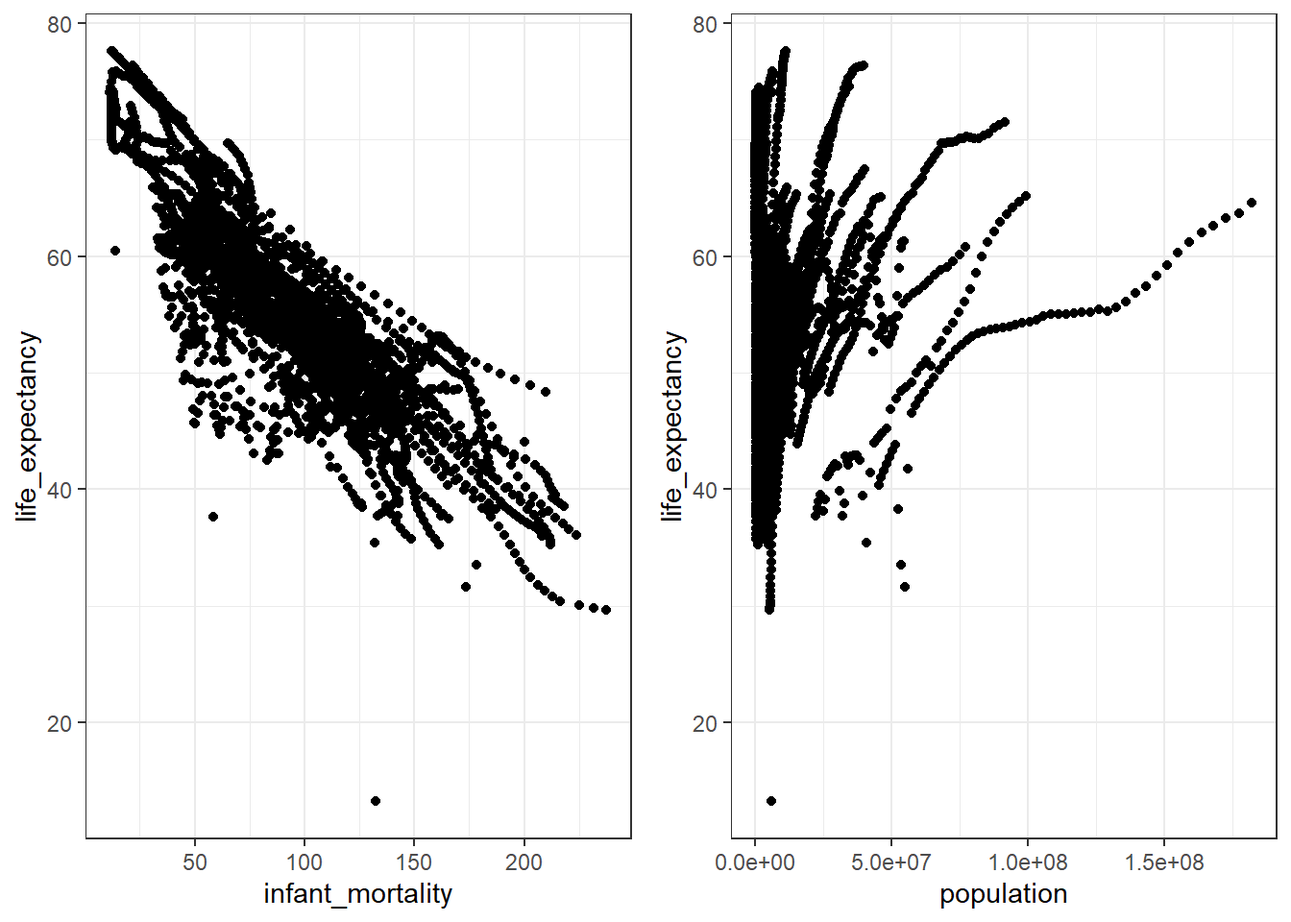
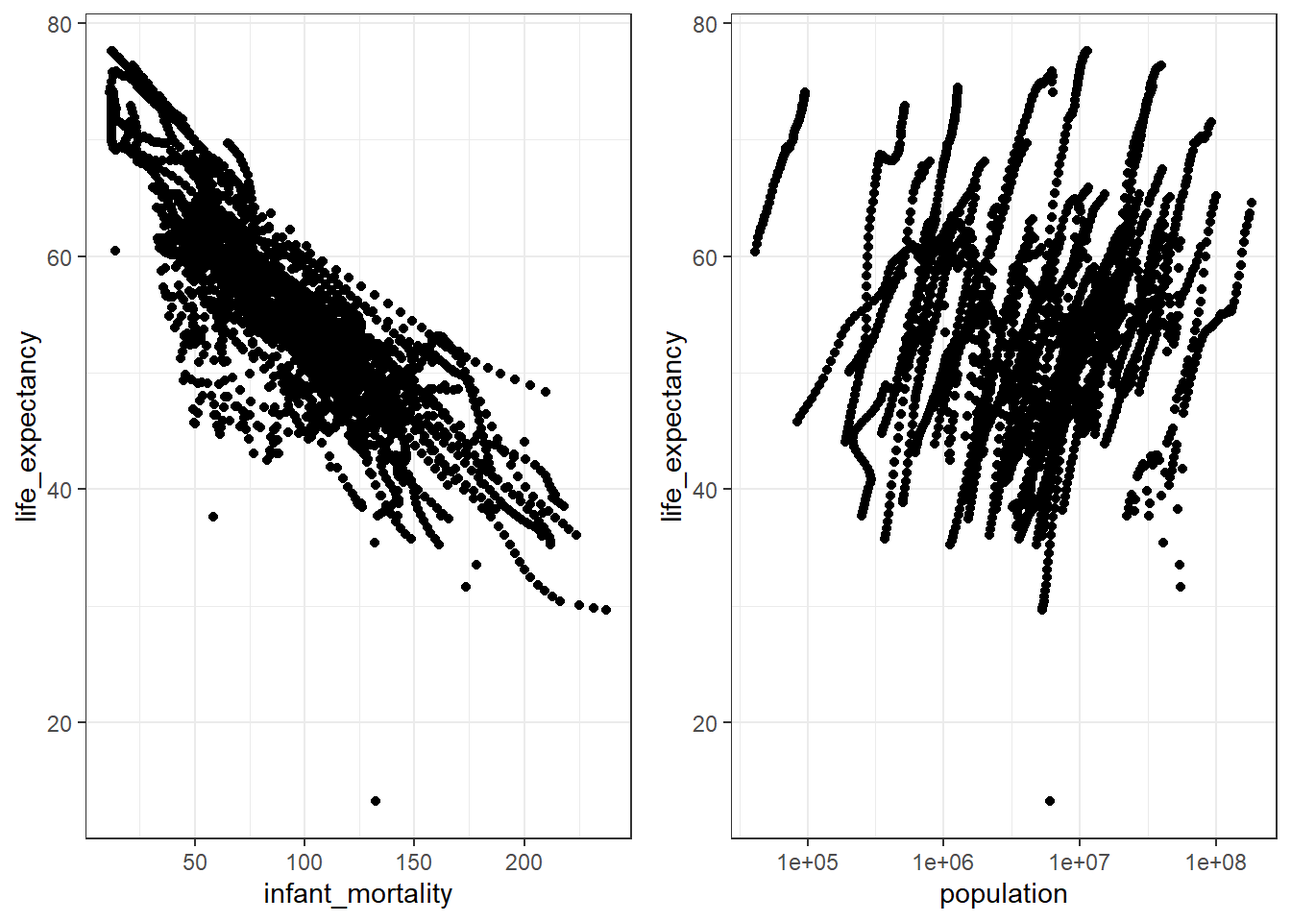
Module 2 Commit 3

diff --git a/docs/starter-analysis-exercise/starter-analysis-exercise.html b/docs/starter-analysis-exercise/starter-analysis-exercise.html
@@ -182,40 +182,40 @@ pre > code.sourceCode > span > a:first-child::before { text-decoration: underlin
 
 <p>Disclaimer: ChatGPT was used to aid in R usage.</p>
 <div class="cell">
-<div class="sourceCode cell-code" id="cb1"><pre class="sourceCode r code-with-copy"><code class="sourceCode r"><span id="cb1-1"><a href="#cb1-1" aria-hidden="true" tabindex="-1"></a><span class="fu">library</span>(<span class="st">"dslabs"</span>)</span></code><button title="Copy to Clipboard" class="code-copy-button"><i class="bi"></i></button></pre></div>
+<div class="sourceCode cell-code" id="cb1"><pre class="sourceCode r code-with-copy"><code class="sourceCode r"><span id="cb1-1"><a href="#cb1-1" aria-hidden="true" tabindex="-1"></a><span class="fu">library</span>(<span class="st">"dslabs"</span>)</span>
+<span id="cb1-2"><a href="#cb1-2" aria-hidden="true" tabindex="-1"></a><span class="fu">library</span>(<span class="st">"tidyverse"</span>)</span></code><button title="Copy to Clipboard" class="code-copy-button"><i class="bi"></i></button></pre></div>
 <div class="cell-output cell-output-stderr">
-<pre><code>Warning: package 'dslabs' was built under R version 4.4.3</code></pre>
-</div>
-<div class="sourceCode cell-code" id="cb3"><pre class="sourceCode r code-with-copy"><code class="sourceCode r"><span id="cb3-1"><a href="#cb3-1" aria-hidden="true" tabindex="-1"></a><span class="fu">library</span>(<span class="st">"tidyverse"</span>)</span></code><button title="Copy to Clipboard" class="code-copy-button"><i class="bi"></i></button></pre></div>
-<div class="cell-output cell-output-stderr">
-<pre><code>Warning: package 'tidyverse' was built under R version 4.4.3</code></pre>
+<pre><code>Warning: package 'ggplot2' was built under R version 4.3.3</code></pre>
 </div>
 <div class="cell-output cell-output-stderr">
-<pre><code>Warning: package 'ggplot2' was built under R version 4.4.3</code></pre>
+<pre><code>Warning: package 'readr' was built under R version 4.3.2</code></pre>
 </div>
 <div class="cell-output cell-output-stderr">
-<pre><code>Warning: package 'readr' was built under R version 4.4.3</code></pre>
+<pre><code>Warning: package 'purrr' was built under R version 4.3.2</code></pre>
 </div>
 <div class="cell-output cell-output-stderr">
-<pre><code>Warning: package 'forcats' was built under R version 4.4.3</code></pre>
+<pre><code>Warning: package 'dplyr' was built under R version 4.3.2</code></pre>
 </div>
 <div class="cell-output cell-output-stderr">
-<pre><code>Warning: package 'lubridate' was built under R version 4.4.3</code></pre>
+<pre><code>Warning: package 'stringr' was built under R version 4.3.2</code></pre>
+</div>
+<div class="cell-output cell-output-stderr">
+<pre><code>Warning: package 'lubridate' was built under R version 4.3.2</code></pre>
 </div>
 <div class="cell-output cell-output-stderr">
 <pre><code>── Attaching core tidyverse packages ──────────────────────── tidyverse 2.0.0 ──
 ✔ dplyr     1.1.4     ✔ readr     2.1.5
 ✔ forcats   1.0.0     ✔ stringr   1.5.1
-✔ ggplot2   3.5.2     ✔ tibble    3.2.1
-✔ lubridate 1.9.4     ✔ tidyr     1.3.1
-✔ purrr     1.0.4     
+✔ ggplot2   3.5.1     ✔ tibble    3.2.1
+✔ lubridate 1.9.3     ✔ tidyr     1.3.0
+✔ purrr     1.0.2     
 ── Conflicts ────────────────────────────────────────── tidyverse_conflicts() ──
 ✖ dplyr::filter() masks stats::filter()
 ✖ dplyr::lag()    masks stats::lag()
 ℹ Use the conflicted package (&lt;http://conflicted.r-lib.org/&gt;) to force all conflicts to become errors</code></pre>
 </div>
-<div class="sourceCode cell-code" id="cb10"><pre class="sourceCode r code-with-copy"><code class="sourceCode r"><span id="cb10-1"><a href="#cb10-1" aria-hidden="true" tabindex="-1"></a><span class="fu">library</span>(<span class="st">"ggplot2"</span>)</span>
-<span id="cb10-2"><a href="#cb10-2" aria-hidden="true" tabindex="-1"></a><span class="fu">library</span>(<span class="st">"gridExtra"</span>)</span></code><button title="Copy to Clipboard" class="code-copy-button"><i class="bi"></i></button></pre></div>
+<div class="sourceCode cell-code" id="cb9"><pre class="sourceCode r code-with-copy"><code class="sourceCode r"><span id="cb9-1"><a href="#cb9-1" aria-hidden="true" tabindex="-1"></a><span class="fu">library</span>(<span class="st">"ggplot2"</span>)</span>
+<span id="cb9-2"><a href="#cb9-2" aria-hidden="true" tabindex="-1"></a><span class="fu">library</span>(<span class="st">"gridExtra"</span>)</span></code><button title="Copy to Clipboard" class="code-copy-button"><i class="bi"></i></button></pre></div>
 <div class="cell-output cell-output-stderr">
 <pre><code>
 Attaching package: 'gridExtra'
@@ -224,29 +224,30 @@ The following object is masked from 'package:dplyr':
 
     combine</code></pre>
 </div>
-<div class="sourceCode cell-code" id="cb12"><pre class="sourceCode r code-with-copy"><code class="sourceCode r"><span id="cb12-1"><a href="#cb12-1" aria-hidden="true" tabindex="-1"></a><span class="co">#creating an object from df:gapminder that only contains African countries</span></span>
-<span id="cb12-2"><a href="#cb12-2" aria-hidden="true" tabindex="-1"></a>africadata <span class="ot">&lt;-</span> gapminder <span class="sc">%&gt;%</span></span>
-<span id="cb12-3"><a href="#cb12-3" aria-hidden="true" tabindex="-1"></a>    <span class="fu">filter</span>(region <span class="sc">%in%</span> <span class="fu">c</span>(<span class="st">"Northern Africa"</span>, <span class="st">"Southern Africa"</span>, <span class="st">"Western Africa"</span>, <span class="st">"Eastern Africa"</span>, <span class="st">"Middle Africa"</span>))</span>
-<span id="cb12-4"><a href="#cb12-4" aria-hidden="true" tabindex="-1"></a></span>
-<span id="cb12-5"><a href="#cb12-5" aria-hidden="true" tabindex="-1"></a><span class="co">#creating an object from df:africadata that only contains infant_mortality and life_expectancy</span></span>
-<span id="cb12-6"><a href="#cb12-6" aria-hidden="true" tabindex="-1"></a>africadata1 <span class="ot">&lt;-</span> africadata <span class="sc">%&gt;%</span></span>
-<span id="cb12-7"><a href="#cb12-7" aria-hidden="true" tabindex="-1"></a>    <span class="fu">select</span>(infant_mortality, life_expectancy)</span>
-<span id="cb12-8"><a href="#cb12-8" aria-hidden="true" tabindex="-1"></a></span>
-<span id="cb12-9"><a href="#cb12-9" aria-hidden="true" tabindex="-1"></a><span class="co">#creating an object from df:africadata that only contains population and life_expectancy</span></span>
-<span id="cb12-10"><a href="#cb12-10" aria-hidden="true" tabindex="-1"></a>africadata2 <span class="ot">&lt;-</span> africadata <span class="sc">%&gt;%</span></span>
-<span id="cb12-11"><a href="#cb12-11" aria-hidden="true" tabindex="-1"></a>    <span class="fu">select</span>(population, life_expectancy)</span>
-<span id="cb12-12"><a href="#cb12-12" aria-hidden="true" tabindex="-1"></a></span>
-<span id="cb12-13"><a href="#cb12-13" aria-hidden="true" tabindex="-1"></a><span class="co">#plotting life_expectancy as a function of infant_mortality using df:africadata1</span></span>
-<span id="cb12-14"><a href="#cb12-14" aria-hidden="true" tabindex="-1"></a>P1 <span class="ot">&lt;-</span> <span class="fu">ggplot</span>(africadata1, <span class="fu">aes</span>(<span class="at">x=</span>infant_mortality, <span class="at">y=</span>life_expectancy))<span class="sc">+</span></span>
-<span id="cb12-15"><a href="#cb12-15" aria-hidden="true" tabindex="-1"></a>    <span class="fu">geom_point</span>()<span class="sc">+</span></span>
-<span id="cb12-16"><a href="#cb12-16" aria-hidden="true" tabindex="-1"></a>    <span class="fu">theme_bw</span>()</span>
-<span id="cb12-17"><a href="#cb12-17" aria-hidden="true" tabindex="-1"></a></span>
-<span id="cb12-18"><a href="#cb12-18" aria-hidden="true" tabindex="-1"></a><span class="co">#plotting life_expectancy as a function of population using df:africadata2</span></span>
-<span id="cb12-19"><a href="#cb12-19" aria-hidden="true" tabindex="-1"></a>P2 <span class="ot">&lt;-</span> <span class="fu">ggplot</span>(africadata2, <span class="fu">aes</span>(<span class="at">x=</span>population, <span class="at">y=</span>life_expectancy))<span class="sc">+</span></span>
-<span id="cb12-20"><a href="#cb12-20" aria-hidden="true" tabindex="-1"></a>    <span class="fu">geom_point</span>()<span class="sc">+</span></span>
-<span id="cb12-21"><a href="#cb12-21" aria-hidden="true" tabindex="-1"></a>    <span class="fu">theme_bw</span>()</span>
-<span id="cb12-22"><a href="#cb12-22" aria-hidden="true" tabindex="-1"></a></span>
-<span id="cb12-23"><a href="#cb12-23" aria-hidden="true" tabindex="-1"></a><span class="fu">grid.arrange</span>(P1, P2, <span class="at">ncol=</span><span class="dv">2</span>)</span></code><button title="Copy to Clipboard" class="code-copy-button"><i class="bi"></i></button></pre></div>
+<div class="sourceCode cell-code" id="cb11"><pre class="sourceCode r code-with-copy"><code class="sourceCode r"><span id="cb11-1"><a href="#cb11-1" aria-hidden="true" tabindex="-1"></a><span class="co">#creating an object from df:gapminder that only contains African countries</span></span>
+<span id="cb11-2"><a href="#cb11-2" aria-hidden="true" tabindex="-1"></a>africadata <span class="ot">&lt;-</span> gapminder <span class="sc">%&gt;%</span></span>
+<span id="cb11-3"><a href="#cb11-3" aria-hidden="true" tabindex="-1"></a>    <span class="fu">filter</span>(region <span class="sc">%in%</span> <span class="fu">c</span>(<span class="st">"Northern Africa"</span>, <span class="st">"Southern Africa"</span>, <span class="st">"Western Africa"</span>, <span class="st">"Eastern Africa"</span>, <span class="st">"Middle Africa"</span>))</span>
+<span id="cb11-4"><a href="#cb11-4" aria-hidden="true" tabindex="-1"></a></span>
+<span id="cb11-5"><a href="#cb11-5" aria-hidden="true" tabindex="-1"></a><span class="co">#creating an object from df:africadata that only contains infant_mortality and life_expectancy</span></span>
+<span id="cb11-6"><a href="#cb11-6" aria-hidden="true" tabindex="-1"></a>africadata1 <span class="ot">&lt;-</span> africadata <span class="sc">%&gt;%</span></span>
+<span id="cb11-7"><a href="#cb11-7" aria-hidden="true" tabindex="-1"></a>    <span class="fu">select</span>(infant_mortality, life_expectancy)</span>
+<span id="cb11-8"><a href="#cb11-8" aria-hidden="true" tabindex="-1"></a></span>
+<span id="cb11-9"><a href="#cb11-9" aria-hidden="true" tabindex="-1"></a><span class="co">#creating an object from df:africadata that only contains population and life_expectancy</span></span>
+<span id="cb11-10"><a href="#cb11-10" aria-hidden="true" tabindex="-1"></a>africadata2 <span class="ot">&lt;-</span> africadata <span class="sc">%&gt;%</span></span>
+<span id="cb11-11"><a href="#cb11-11" aria-hidden="true" tabindex="-1"></a>    <span class="fu">select</span>(population, life_expectancy)</span>
+<span id="cb11-12"><a href="#cb11-12" aria-hidden="true" tabindex="-1"></a></span>
+<span id="cb11-13"><a href="#cb11-13" aria-hidden="true" tabindex="-1"></a><span class="co">#plotting life_expectancy as a function of infant_mortality using df:africadata1</span></span>
+<span id="cb11-14"><a href="#cb11-14" aria-hidden="true" tabindex="-1"></a>P1 <span class="ot">&lt;-</span> <span class="fu">ggplot</span>(africadata1, <span class="fu">aes</span>(<span class="at">x=</span>infant_mortality, <span class="at">y=</span>life_expectancy))<span class="sc">+</span></span>
+<span id="cb11-15"><a href="#cb11-15" aria-hidden="true" tabindex="-1"></a>    <span class="fu">geom_point</span>()<span class="sc">+</span></span>
+<span id="cb11-16"><a href="#cb11-16" aria-hidden="true" tabindex="-1"></a>    <span class="fu">theme_bw</span>()</span>
+<span id="cb11-17"><a href="#cb11-17" aria-hidden="true" tabindex="-1"></a></span>
+<span id="cb11-18"><a href="#cb11-18" aria-hidden="true" tabindex="-1"></a><span class="co">#plotting life_expectancy as a function of population using df:africadata2</span></span>
+<span id="cb11-19"><a href="#cb11-19" aria-hidden="true" tabindex="-1"></a>P2 <span class="ot">&lt;-</span> <span class="fu">ggplot</span>(africadata2, <span class="fu">aes</span>(<span class="at">x=</span>population, <span class="at">y=</span>life_expectancy))<span class="sc">+</span></span>
+<span id="cb11-20"><a href="#cb11-20" aria-hidden="true" tabindex="-1"></a>    <span class="fu">geom_point</span>()<span class="sc">+</span></span>
+<span id="cb11-21"><a href="#cb11-21" aria-hidden="true" tabindex="-1"></a>    <span class="fu">scale_x_log10</span>()<span class="sc">+</span></span>
+<span id="cb11-22"><a href="#cb11-22" aria-hidden="true" tabindex="-1"></a>    <span class="fu">theme_bw</span>()</span>
+<span id="cb11-23"><a href="#cb11-23" aria-hidden="true" tabindex="-1"></a></span>
+<span id="cb11-24"><a href="#cb11-24" aria-hidden="true" tabindex="-1"></a><span class="fu">grid.arrange</span>(P1, P2, <span class="at">ncol=</span><span class="dv">2</span>)</span></code><button title="Copy to Clipboard" class="code-copy-button"><i class="bi"></i></button></pre></div>
 <div class="cell-output cell-output-stderr">
 <pre><code>Warning: Removed 226 rows containing missing values or values outside the scale range
 (`geom_point()`).</code></pre>
@@ -262,8 +263,8 @@ The following object is masked from 'package:dplyr':
 </figure>
 </div>
 </div>
-<div class="sourceCode cell-code" id="cb15"><pre class="sourceCode r code-with-copy"><code class="sourceCode r"><span id="cb15-1"><a href="#cb15-1" aria-hidden="true" tabindex="-1"></a><span class="co">#checking which years have missing data on infant_mortality</span></span>
-<span id="cb15-2"><a href="#cb15-2" aria-hidden="true" tabindex="-1"></a><span class="fu">aggregate</span>(<span class="fu">is.na</span>(infant_mortality) <span class="sc">~</span> year, <span class="at">data=</span>africadata, sum)</span></code><button title="Copy to Clipboard" class="code-copy-button"><i class="bi"></i></button></pre></div>
+<div class="sourceCode cell-code" id="cb14"><pre class="sourceCode r code-with-copy"><code class="sourceCode r"><span id="cb14-1"><a href="#cb14-1" aria-hidden="true" tabindex="-1"></a><span class="co">#checking which years have missing data on infant_mortality</span></span>
+<span id="cb14-2"><a href="#cb14-2" aria-hidden="true" tabindex="-1"></a><span class="fu">aggregate</span>(<span class="fu">is.na</span>(infant_mortality) <span class="sc">~</span> year, <span class="at">data=</span>africadata, sum)</span></code><button title="Copy to Clipboard" class="code-copy-button"><i class="bi"></i></button></pre></div>
 <div class="cell-output cell-output-stdout">
 <pre><code>   year is.na(infant_mortality)
 1  1960                      10
@@ -324,28 +325,29 @@ The following object is masked from 'package:dplyr':
 56 2015                       0
 57 2016                      51</code></pre>
 </div>
-<div class="sourceCode cell-code" id="cb17"><pre class="sourceCode r code-with-copy"><code class="sourceCode r"><span id="cb17-1"><a href="#cb17-1" aria-hidden="true" tabindex="-1"></a><span class="co">#creating an object from df:africadata that only contains data from year 2000</span></span>
-<span id="cb17-2"><a href="#cb17-2" aria-hidden="true" tabindex="-1"></a>africadata2000 <span class="ot">&lt;-</span> africadata[africadata<span class="sc">$</span>year<span class="sc">==</span><span class="dv">2000</span>,]</span>
-<span id="cb17-3"><a href="#cb17-3" aria-hidden="true" tabindex="-1"></a></span>
-<span id="cb17-4"><a href="#cb17-4" aria-hidden="true" tabindex="-1"></a><span class="co">#creating an object from df:africadata2000 that only contains infant_mortality and life_expectancy</span></span>
-<span id="cb17-5"><a href="#cb17-5" aria-hidden="true" tabindex="-1"></a>africadata3 <span class="ot">&lt;-</span> africadata2000 <span class="sc">%&gt;%</span></span>
-<span id="cb17-6"><a href="#cb17-6" aria-hidden="true" tabindex="-1"></a>    <span class="fu">select</span>(infant_mortality, life_expectancy)</span>
-<span id="cb17-7"><a href="#cb17-7" aria-hidden="true" tabindex="-1"></a></span>
-<span id="cb17-8"><a href="#cb17-8" aria-hidden="true" tabindex="-1"></a><span class="co">#creating an object from df:africadata2000 that only contains population and life_expectancy</span></span>
-<span id="cb17-9"><a href="#cb17-9" aria-hidden="true" tabindex="-1"></a>africadata4 <span class="ot">&lt;-</span> africadata2000 <span class="sc">%&gt;%</span></span>
-<span id="cb17-10"><a href="#cb17-10" aria-hidden="true" tabindex="-1"></a>    <span class="fu">select</span>(population, life_expectancy)</span>
-<span id="cb17-11"><a href="#cb17-11" aria-hidden="true" tabindex="-1"></a></span>
-<span id="cb17-12"><a href="#cb17-12" aria-hidden="true" tabindex="-1"></a><span class="co">#plotting life_expectancy as a function of infant_mortality using df:africadata3</span></span>
-<span id="cb17-13"><a href="#cb17-13" aria-hidden="true" tabindex="-1"></a>P3 <span class="ot">&lt;-</span> <span class="fu">ggplot</span>(africadata3, <span class="fu">aes</span>(<span class="at">x=</span>infant_mortality, <span class="at">y=</span>life_expectancy))<span class="sc">+</span></span>
-<span id="cb17-14"><a href="#cb17-14" aria-hidden="true" tabindex="-1"></a>    <span class="fu">geom_point</span>()<span class="sc">+</span></span>
-<span id="cb17-15"><a href="#cb17-15" aria-hidden="true" tabindex="-1"></a>    <span class="fu">theme_bw</span>()</span>
-<span id="cb17-16"><a href="#cb17-16" aria-hidden="true" tabindex="-1"></a></span>
-<span id="cb17-17"><a href="#cb17-17" aria-hidden="true" tabindex="-1"></a><span class="co">#plotting life_expectancy as a function of population using df:africadata4</span></span>
-<span id="cb17-18"><a href="#cb17-18" aria-hidden="true" tabindex="-1"></a>P4 <span class="ot">&lt;-</span> <span class="fu">ggplot</span>(africadata4, <span class="fu">aes</span>(<span class="at">x=</span>population, <span class="at">y=</span>life_expectancy))<span class="sc">+</span></span>
-<span id="cb17-19"><a href="#cb17-19" aria-hidden="true" tabindex="-1"></a>    <span class="fu">geom_point</span>()<span class="sc">+</span></span>
-<span id="cb17-20"><a href="#cb17-20" aria-hidden="true" tabindex="-1"></a>    <span class="fu">theme_bw</span>()</span>
-<span id="cb17-21"><a href="#cb17-21" aria-hidden="true" tabindex="-1"></a></span>
-<span id="cb17-22"><a href="#cb17-22" aria-hidden="true" tabindex="-1"></a><span class="fu">grid.arrange</span>(P3, P4, <span class="at">ncol=</span><span class="dv">2</span>)</span></code><button title="Copy to Clipboard" class="code-copy-button"><i class="bi"></i></button></pre></div>
+<div class="sourceCode cell-code" id="cb16"><pre class="sourceCode r code-with-copy"><code class="sourceCode r"><span id="cb16-1"><a href="#cb16-1" aria-hidden="true" tabindex="-1"></a><span class="co">#creating an object from df:africadata that only contains data from year 2000</span></span>
+<span id="cb16-2"><a href="#cb16-2" aria-hidden="true" tabindex="-1"></a>africadata2000 <span class="ot">&lt;-</span> africadata[africadata<span class="sc">$</span>year<span class="sc">==</span><span class="dv">2000</span>,]</span>
+<span id="cb16-3"><a href="#cb16-3" aria-hidden="true" tabindex="-1"></a></span>
+<span id="cb16-4"><a href="#cb16-4" aria-hidden="true" tabindex="-1"></a><span class="co">#creating an object from df:africadata2000 that only contains infant_mortality and life_expectancy</span></span>
+<span id="cb16-5"><a href="#cb16-5" aria-hidden="true" tabindex="-1"></a>africadata3 <span class="ot">&lt;-</span> africadata2000 <span class="sc">%&gt;%</span></span>
+<span id="cb16-6"><a href="#cb16-6" aria-hidden="true" tabindex="-1"></a>    <span class="fu">select</span>(infant_mortality, life_expectancy)</span>
+<span id="cb16-7"><a href="#cb16-7" aria-hidden="true" tabindex="-1"></a></span>
+<span id="cb16-8"><a href="#cb16-8" aria-hidden="true" tabindex="-1"></a><span class="co">#creating an object from df:africadata2000 that only contains population and life_expectancy</span></span>
+<span id="cb16-9"><a href="#cb16-9" aria-hidden="true" tabindex="-1"></a>africadata4 <span class="ot">&lt;-</span> africadata2000 <span class="sc">%&gt;%</span></span>
+<span id="cb16-10"><a href="#cb16-10" aria-hidden="true" tabindex="-1"></a>    <span class="fu">select</span>(population, life_expectancy)</span>
+<span id="cb16-11"><a href="#cb16-11" aria-hidden="true" tabindex="-1"></a></span>
+<span id="cb16-12"><a href="#cb16-12" aria-hidden="true" tabindex="-1"></a><span class="co">#plotting life_expectancy as a function of infant_mortality using df:africadata3</span></span>
+<span id="cb16-13"><a href="#cb16-13" aria-hidden="true" tabindex="-1"></a>P3 <span class="ot">&lt;-</span> <span class="fu">ggplot</span>(africadata3, <span class="fu">aes</span>(<span class="at">x=</span>infant_mortality, <span class="at">y=</span>life_expectancy))<span class="sc">+</span></span>
+<span id="cb16-14"><a href="#cb16-14" aria-hidden="true" tabindex="-1"></a>    <span class="fu">geom_point</span>()<span class="sc">+</span></span>
+<span id="cb16-15"><a href="#cb16-15" aria-hidden="true" tabindex="-1"></a>    <span class="fu">theme_bw</span>()</span>
+<span id="cb16-16"><a href="#cb16-16" aria-hidden="true" tabindex="-1"></a></span>
+<span id="cb16-17"><a href="#cb16-17" aria-hidden="true" tabindex="-1"></a><span class="co">#plotting life_expectancy as a function of population using df:africadata4</span></span>
+<span id="cb16-18"><a href="#cb16-18" aria-hidden="true" tabindex="-1"></a>P4 <span class="ot">&lt;-</span> <span class="fu">ggplot</span>(africadata4, <span class="fu">aes</span>(<span class="at">x=</span>population, <span class="at">y=</span>life_expectancy))<span class="sc">+</span></span>
+<span id="cb16-19"><a href="#cb16-19" aria-hidden="true" tabindex="-1"></a>    <span class="fu">geom_point</span>()<span class="sc">+</span></span>
+<span id="cb16-20"><a href="#cb16-20" aria-hidden="true" tabindex="-1"></a>    <span class="fu">scale_x_log10</span>()<span class="sc">+</span></span>
+<span id="cb16-21"><a href="#cb16-21" aria-hidden="true" tabindex="-1"></a>    <span class="fu">theme_bw</span>()</span>
+<span id="cb16-22"><a href="#cb16-22" aria-hidden="true" tabindex="-1"></a></span>
+<span id="cb16-23"><a href="#cb16-23" aria-hidden="true" tabindex="-1"></a><span class="fu">grid.arrange</span>(P3, P4, <span class="at">ncol=</span><span class="dv">2</span>)</span></code><button title="Copy to Clipboard" class="code-copy-button"><i class="bi"></i></button></pre></div>
 <div class="cell-output-display">
 <div>
 <figure class="figure">
@@ -353,9 +355,9 @@ The following object is masked from 'package:dplyr':
 </figure>
 </div>
 </div>
-<div class="sourceCode cell-code" id="cb18"><pre class="sourceCode r code-with-copy"><code class="sourceCode r"><span id="cb18-1"><a href="#cb18-1" aria-hidden="true" tabindex="-1"></a><span class="co">#using the lm function to fit life expectancy as the outcome and infant mortality as the predictor using df:africadata3</span></span>
-<span id="cb18-2"><a href="#cb18-2" aria-hidden="true" tabindex="-1"></a>fit1 <span class="ot">&lt;-</span> <span class="fu">lm</span>(life_expectancy <span class="sc">~</span> infant_mortality, <span class="at">data=</span>africadata3)</span>
-<span id="cb18-3"><a href="#cb18-3" aria-hidden="true" tabindex="-1"></a><span class="fu">summary</span>(fit1)</span></code><button title="Copy to Clipboard" class="code-copy-button"><i class="bi"></i></button></pre></div>
+<div class="sourceCode cell-code" id="cb17"><pre class="sourceCode r code-with-copy"><code class="sourceCode r"><span id="cb17-1"><a href="#cb17-1" aria-hidden="true" tabindex="-1"></a><span class="co">#using the lm function to fit life expectancy as the outcome and infant mortality as the predictor using df:africadata3</span></span>
+<span id="cb17-2"><a href="#cb17-2" aria-hidden="true" tabindex="-1"></a>fit1 <span class="ot">&lt;-</span> <span class="fu">lm</span>(life_expectancy <span class="sc">~</span> infant_mortality, <span class="at">data=</span>africadata3)</span>
+<span id="cb17-3"><a href="#cb17-3" aria-hidden="true" tabindex="-1"></a><span class="fu">summary</span>(fit1)</span></code><button title="Copy to Clipboard" class="code-copy-button"><i class="bi"></i></button></pre></div>
 <div class="cell-output cell-output-stdout">
 <pre><code>
 Call:
@@ -376,11 +378,11 @@ Residual standard error: 6.221 on 49 degrees of freedom
 Multiple R-squared:  0.4701,    Adjusted R-squared:  0.4593 
 F-statistic: 43.48 on 1 and 49 DF,  p-value: 2.826e-08</code></pre>
 </div>
-<div class="sourceCode cell-code" id="cb20"><pre class="sourceCode r code-with-copy"><code class="sourceCode r"><span id="cb20-1"><a href="#cb20-1" aria-hidden="true" tabindex="-1"></a><span class="co">#Infant mortality was strongly negatively associated with life expectancy (-0.19, p=2.83e-08). If infant mortality = 0, the average life expectancy would be 71.3 years. For each unit increase in infant mortality, the model assumes life expectancy to go down by 0.19 years (~2.4 months).</span></span>
-<span id="cb20-2"><a href="#cb20-2" aria-hidden="true" tabindex="-1"></a></span>
-<span id="cb20-3"><a href="#cb20-3" aria-hidden="true" tabindex="-1"></a><span class="co">#using the lm function to fit life expectancy as the outcome and population as the predictor using df:africadata4</span></span>
-<span id="cb20-4"><a href="#cb20-4" aria-hidden="true" tabindex="-1"></a>fit2 <span class="ot">&lt;-</span> <span class="fu">lm</span>(life_expectancy <span class="sc">~</span> population, <span class="at">data=</span>africadata4)</span>
-<span id="cb20-5"><a href="#cb20-5" aria-hidden="true" tabindex="-1"></a><span class="fu">summary</span>(fit2) </span></code><button title="Copy to Clipboard" class="code-copy-button"><i class="bi"></i></button></pre></div>
+<div class="sourceCode cell-code" id="cb19"><pre class="sourceCode r code-with-copy"><code class="sourceCode r"><span id="cb19-1"><a href="#cb19-1" aria-hidden="true" tabindex="-1"></a><span class="co">#Infant mortality was strongly negatively associated with life expectancy (-0.19, p=2.83e-08). If infant mortality = 0, the average life expectancy would be 71.3 years. For each unit increase in infant mortality, the model assumes life expectancy to go down by 0.19 years (~2.4 months).</span></span>
+<span id="cb19-2"><a href="#cb19-2" aria-hidden="true" tabindex="-1"></a></span>
+<span id="cb19-3"><a href="#cb19-3" aria-hidden="true" tabindex="-1"></a><span class="co">#using the lm function to fit life expectancy as the outcome and population as the predictor using df:africadata4</span></span>
+<span id="cb19-4"><a href="#cb19-4" aria-hidden="true" tabindex="-1"></a>fit2 <span class="ot">&lt;-</span> <span class="fu">lm</span>(life_expectancy <span class="sc">~</span> population, <span class="at">data=</span>africadata4)</span>
+<span id="cb19-5"><a href="#cb19-5" aria-hidden="true" tabindex="-1"></a><span class="fu">summary</span>(fit2) </span></code><button title="Copy to Clipboard" class="code-copy-button"><i class="bi"></i></button></pre></div>
 <div class="cell-output cell-output-stdout">
 <pre><code>
 Call:
@@ -401,7 +403,7 @@ Residual standard error: 8.524 on 49 degrees of freedom
 Multiple R-squared:  0.005176,  Adjusted R-squared:  -0.01513 
 F-statistic: 0.2549 on 1 and 49 DF,  p-value: 0.6159</code></pre>
 </div>
-<div class="sourceCode cell-code" id="cb22"><pre class="sourceCode r code-with-copy"><code class="sourceCode r"><span id="cb22-1"><a href="#cb22-1" aria-hidden="true" tabindex="-1"></a><span class="co">#Population size was not associated with life expectancy (2.756e-08, p=0.616). Unlike infant mortality, population size only explained ~0.5% (Multiple R-squared) of the variation in life expectancy.</span></span></code><button title="Copy to Clipboard" class="code-copy-button"><i class="bi"></i></button></pre></div>
+<div class="sourceCode cell-code" id="cb21"><pre class="sourceCode r code-with-copy"><code class="sourceCode r"><span id="cb21-1"><a href="#cb21-1" aria-hidden="true" tabindex="-1"></a><span class="co">#Population size was not associated with life expectancy (2.756e-08, p=0.616). Unlike infant mortality, population size only explained ~0.5% (Multiple R-squared) of the variation in life expectancy.</span></span></code><button title="Copy to Clipboard" class="code-copy-button"><i class="bi"></i></button></pre></div>
 </div>
 
 
